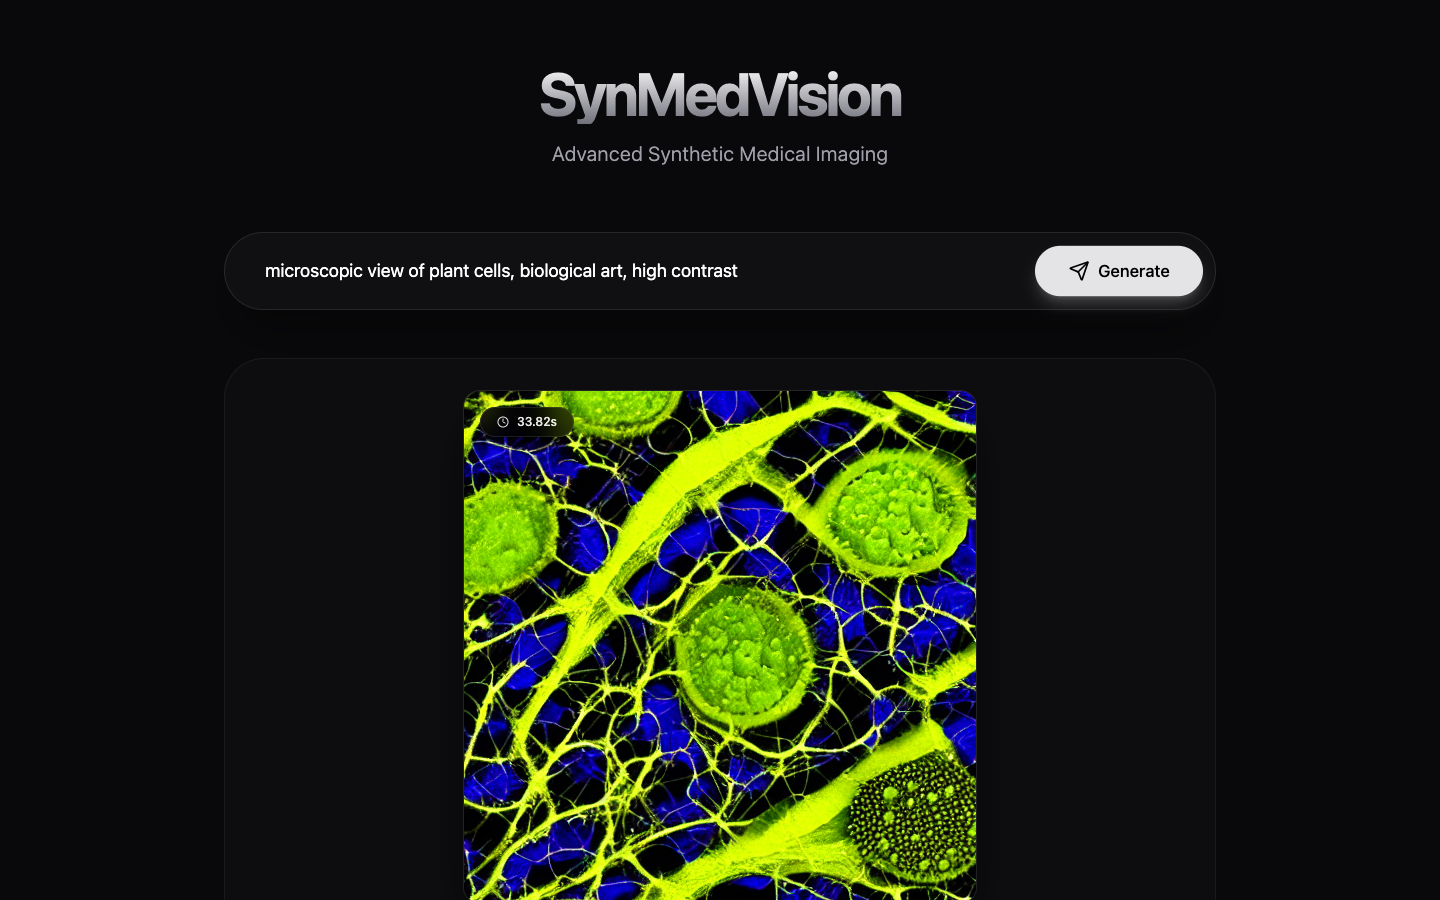
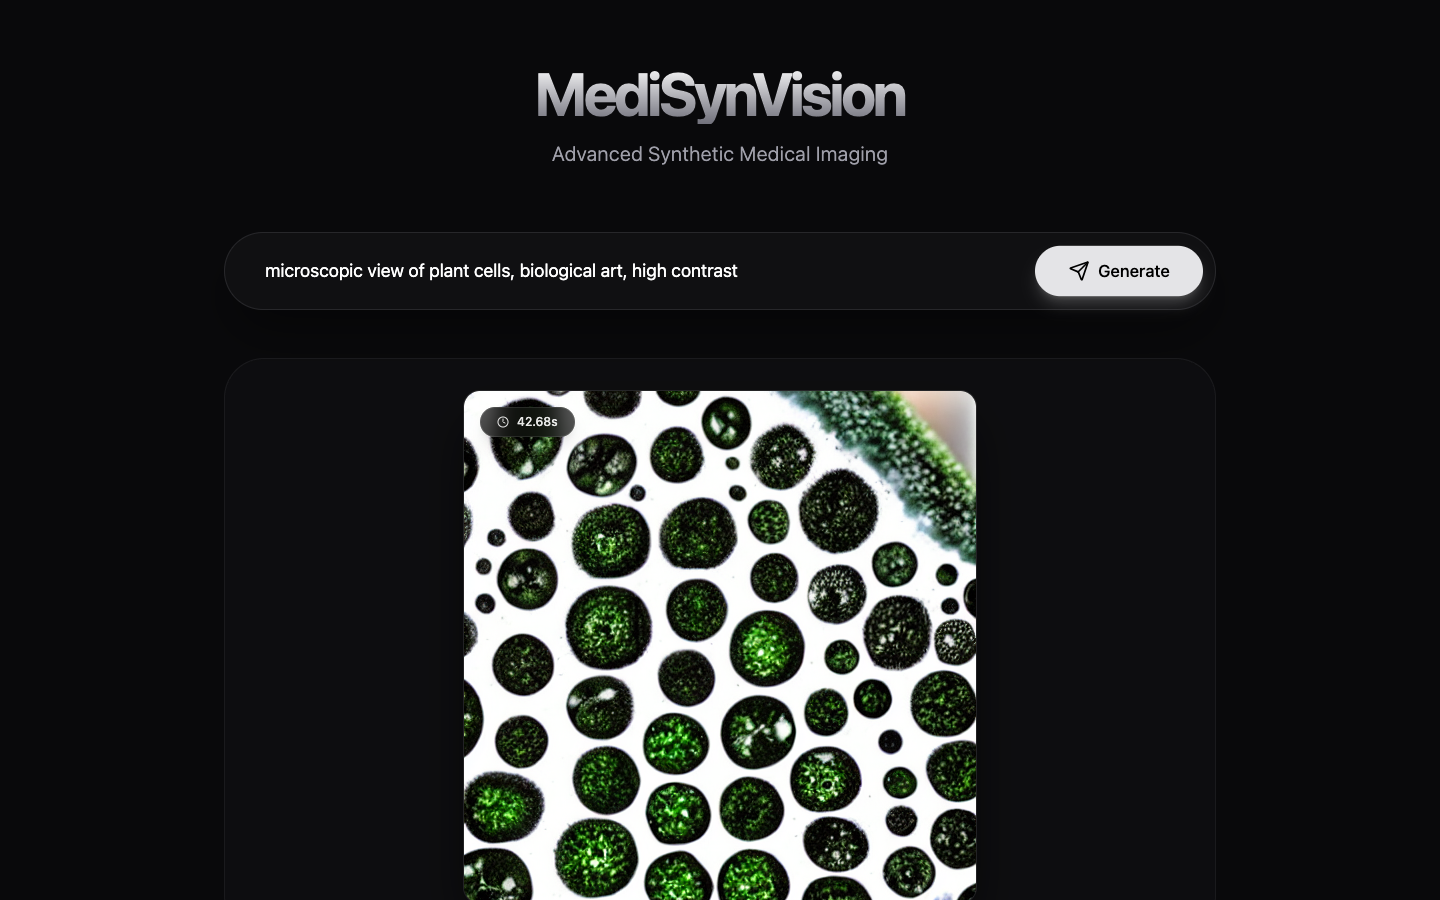
chore: Rename project to MediSynVision and update screenshot

Changed region(s): [[0.3125, 0.4356, 0.6875, 1.0], [0.375, 0.0622, 0.625, 0.1556]]

diff --git a/web/src/App.tsx b/web/src/App.tsx
@@ -46,7 +46,7 @@ function App() {
         {/* Header */}
         <header className="mb-16 text-center space-y-4">
           <h1 className="text-6xl font-bold tracking-tighter bg-gradient-to-b from-white to-zinc-500 bg-clip-text text-transparent">
-            SynMedVision
+            MediSynVision
           </h1>
           <p className="text-zinc-400 text-xl font-light tracking-wide">
             Advanced Synthetic Medical Imaging
@@ -121,7 +121,7 @@ function App() {
                   <div className="absolute inset-0 bg-black/40 opacity-0 group-hover:opacity-100 transition-all duration-300 flex items-center justify-center backdrop-blur-[2px]">
                     <a
                       href={image}
-                      download={`synmedvision-${Date.now()}.png`}
+                      download={`medisynvision-${Date.now()}.png`}
                       className="bg-white text-black px-8 py-4 rounded-full font-semibold flex items-center gap-3 hover:scale-105 transition-transform shadow-xl hover:bg-zinc-100"
                     >
                       <Download className="w-5 h-5" />
@@ -142,7 +142,7 @@ function App() {
         </main>
 
         <footer className="mt-24 text-center text-zinc-600 text-sm">
-          <p>© 2025 SynMedVision Research. Powered by Stable Diffusion.</p>
+          <p>© 2025 MediSynVision Research. Powered by Stable Diffusion.</p>
         </footer>
       </div>
     </div>

diff --git a/web/index.html b/web/index.html
@@ -4,7 +4,7 @@
     <meta charset="UTF-8" />
     <link rel="icon" type="image/svg+xml" href="/vite.svg" />
     <meta name="viewport" content="width=device-width, initial-scale=1.0" />
-    <title>web</title>
+    <title>MediSynVision</title>
   </head>
   <body>
     <div id="root"></div>

diff --git a/src/api/app.py b/src/api/app.py
@@ -6,7 +6,11 @@ import logging
 # Configure logging
 logging.basicConfig(level=logging.INFO)
 
-app = FastAPI(title="SynMedVision API")
+app = FastAPI(
+    title="MediSynVision API",
+    description="API for generating synthetic medical images using Stable Diffusion",
+    version="1.0.0"
+)
 
 # Allow CORS for local development
 app.add_middleware(

diff --git a/README.md b/README.md
@@ -1,6 +1,6 @@
-# SynMedVision
+# MediSynVision
 
-**SynMedVision** is a state-of-the-art synthetic medical imaging platform designed to generate high-fidelity histopathology samples using advanced diffusion models.
+**MediSynVision** is a state-of-the-art synthetic medical imaging platform designed to generate high-fidelity histopathology samples using advanced diffusion models.
 
 ![Platform Preview](web/public/preview.png)
 
